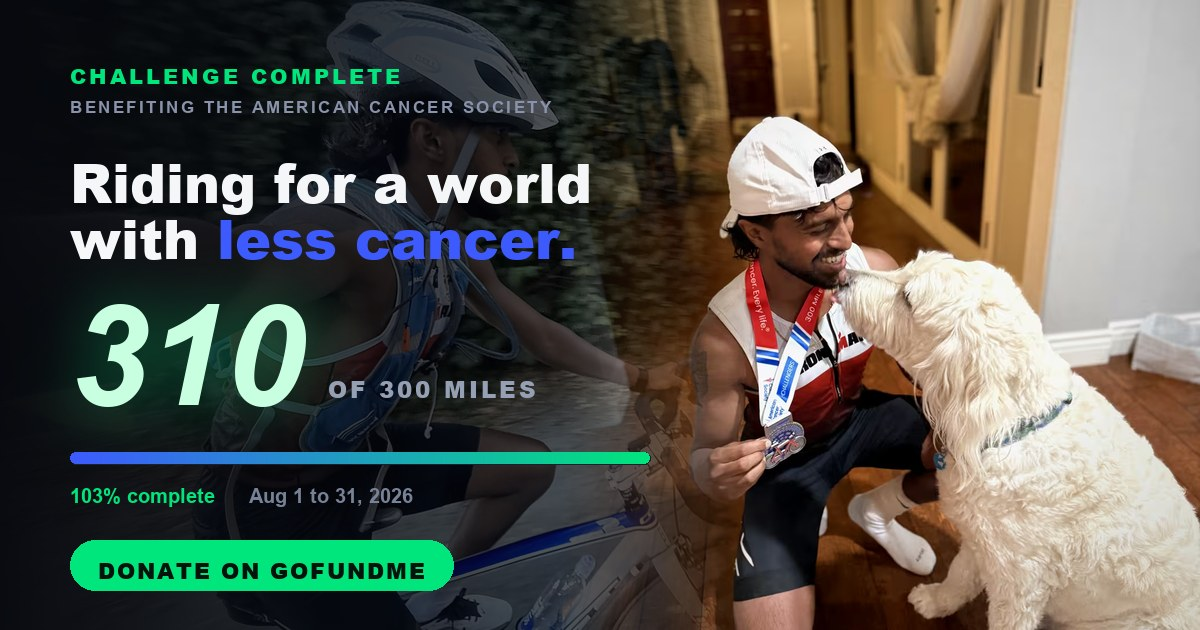
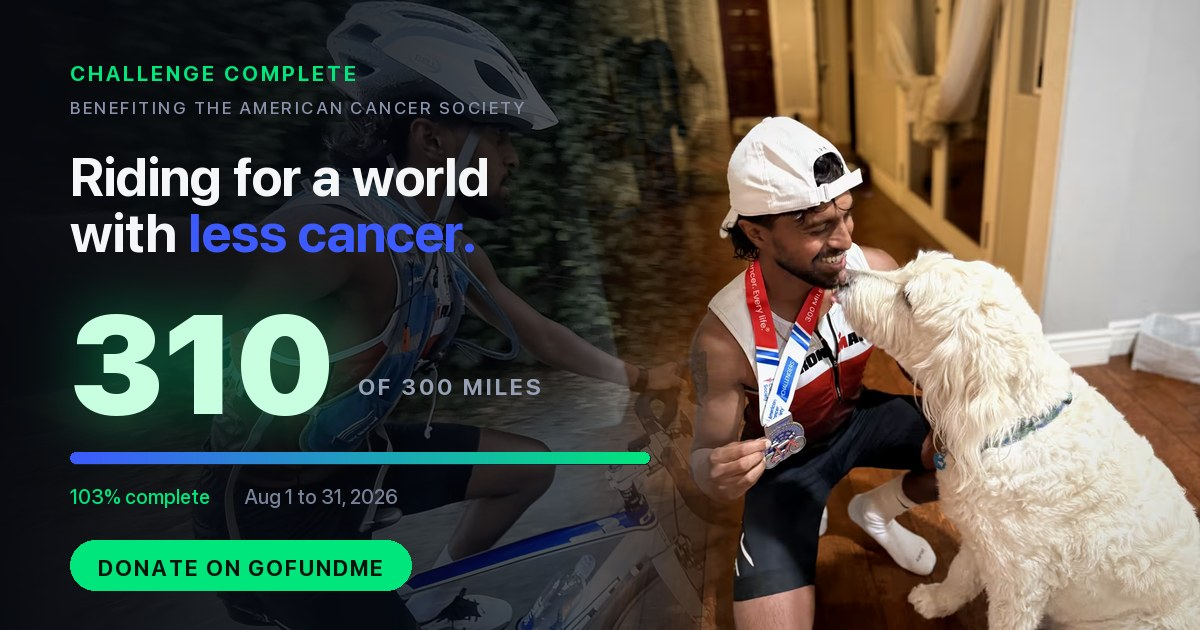
Use the site's font on every card
index.html sets -apple-system / SF Pro Display. The story was moved to SF Pro
but the link preview, the feed post and the square were still Arial Black, so
the set did not match itself or the page. All four are on SF Pro now.

Claude-Session: https://claude.ai/code/session_01NH75BrgSUeWBYsvkeeFkNz

diff --git a/tools/make_cards.py b/tools/make_cards.py
@@ -212,29 +212,29 @@ def build_og(ride, medal, done, goal, rng, raised, money_goal):
 
     d = ImageDraw.Draw(base)
     tracked(d, (L, 60), "CHALLENGE COMPLETE" if done >= goal else "THE 300 MILE CHALLENGE",
-            font(F_BLACK, 21), GREEN, 3.0)
-    tracked(d, (L, 97), "BENEFITING THE AMERICAN CANCER SOCIETY", font(F_BOLD, 17), GREY, 2.5)
-    fh = font(F_BLACK, 54)
+            sf(21, "Bold"), GREEN, 3.0)
+    tracked(d, (L, 97), "BENEFITING THE AMERICAN CANCER SOCIETY", sf(17, "Medium"), GREY, 2.5)
+    fh = sf(54, "Bold")
     d.text((L, 143), "Riding for a world", font=fh, fill=WHITE)
     d.text((L, 199), "with ", font=fh, fill=WHITE)
     d.text((L + d.textlength("with ", font=fh), 199), "less cancer.", font=fh, fill=BLUE)
 
-    fn = font(F_ITAL, 140)
+    fn = sf(140, "Black")
     num = str(int(round(done)))
     base = glow_number(base, (L, 278), num, fn)
     d = ImageDraw.Draw(base)
     tracked(d, (L + d.textlength(num, font=fn) + 24, 372), "OF %d MILES" % goal,
-            font(F_BLACK, 23), (150, 160, 180), 3.0)
+            sf(23, "Bold"), (150, 160, 180), 3.0)
 
     base = bar(base, L, seam - 40, 452, 12, min(1.0, done / goal))
     d = ImageDraw.Draw(base)
-    fs = font(F_BOLD, 20)
+    fs = sf(20, "Medium")
     d.text((L, 484), "%d%% complete" % round(100 * done / goal), font=fs, fill=GREEN)
     if rng:
         d.text((L + d.textlength("100% complete", font=fs) + 34, 484), rng,
                font=fs, fill=(120, 130, 150))
 
-    fc = font(F_BLACK, 22)
+    fc = sf(22, "Bold")
     lab = "DONATE ON GOFUNDME"
     cw = tracked_w(d, lab, fc, 2.0)
     d.rounded_rectangle([L, 540, L + cw + 56, 590], radius=25, fill=GREEN)
@@ -274,21 +274,21 @@ def typeblock(base, x, y, W, done, goal, raised, donors, allriders, scale=1.0,
     """Everything below the photo. Nothing here sits on an image."""
     S = lambda v: max(1, round(v * scale))
     d = ImageDraw.Draw(base)
-    tracked(d, (x, y), "CHALLENGE COMPLETE", font(F_BLACK, S(23)), GREEN, S(3.4))
+    tracked(d, (x, y), "CHALLENGE COMPLETE", sf(S(23), "Bold"), GREEN, S(3.4))
     tracked(d, (x, y + S(40)), "BENEFITING THE AMERICAN CANCER SOCIETY",
-            font(F_BOLD, S(18)), (150, 159, 178), S(2.6))
+            sf(S(18), "Medium"), (150, 159, 178), S(2.6))
 
-    fn = font(F_ITAL, S(150))
+    fn = sf(S(150), "Black")
     num = str(int(round(done)))
     ny = y + S(88)
     base = glow_number(base, (x, ny), num, fn)
     d = ImageDraw.Draw(base)
     tracked(d, (x + d.textlength(num, font=fn) + S(24), ny + S(96)),
-            "OF %d MILES" % goal, font(F_BLACK, S(26)), (150, 160, 180), S(3.2))
+            "OF %d MILES" % goal, sf(S(26), "Bold"), (150, 160, 180), S(3.2))
     yy = ny + S(178)
 
     if headline:
-        fh = font(F_BLACK, S(48))
+        fh = sf(S(48), "Bold")
         d.text((x, yy), "Riding for a world", font=fh, fill=WHITE)
         d.text((x, yy + S(54)), "with ", font=fh, fill=WHITE)
         d.text((x + d.textlength("with ", font=fh), yy + S(54)), "less cancer.",
@@ -300,15 +300,15 @@ def typeblock(base, x, y, W, done, goal, raised, donors, allriders, scale=1.0,
     yy += S(36)
     d = ImageDraw.Draw(base)
     d.text((x, yy), "$%s raised  \u00b7  %d donors" % (format(raised, ","), donors),
-           font=font(F_BOLD, S(23)), fill=GREEN)
+           font=sf(S(23), "Medium"), fill=GREEN)
     if allriders:
         d.text((x, yy + S(34)),
                "$%s across every rider in the challenge" % format(allriders, ","),
-               font=font(F_BOLD, S(18)), fill=(112, 122, 142))
+               font=sf(S(18), "Medium"), fill=(112, 122, 142))
     yy += S(78)
 
     if cta:
-        fc = font(F_BLACK, S(25))
+        fc = sf(S(25), "Bold")
         lab = "DONATE ON GOFUNDME"
         cw = tracked_w(d, lab, fc, S(2.3))
         d.rounded_rectangle([x, yy, x + cw + S(62), yy + S(62)], radius=S(31), fill=GREEN)
